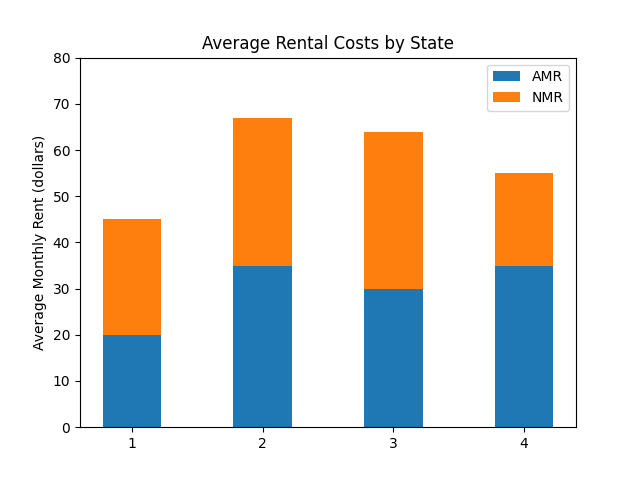
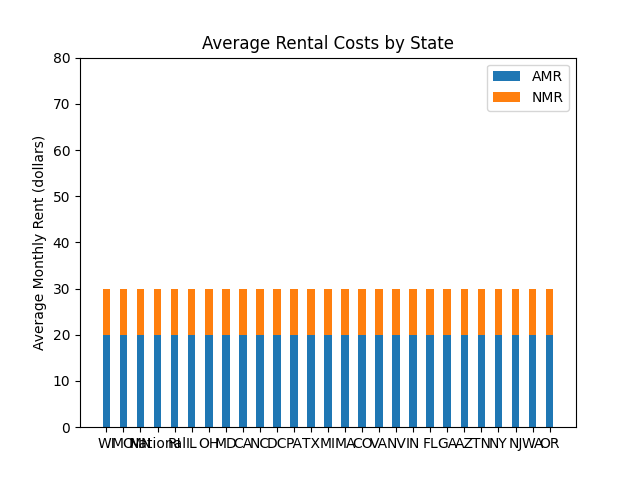
Final Project Updates

Changed region(s): [[0.1562, 0.2188, 0.875, 0.9375]]

diff --git a/FinalProject.py b/FinalProject.py
@@ -21,7 +21,7 @@ df = pd.read_csv(io.StringIO(download.decode('utf-8')))
 #Test =  Printing out the first 5 rows of the dataframe
 #print (df.head())
 
-#Unique State Retrieval
+#Unique State Retrieval 
 dataFrame = pd.DataFrame(df)
 Unique_State = (dataFrame["Region"].unique()) #Pulls State Abbreviation
 Unique_State_Count = (len(Unique_State)) #Count for all Inputs in Region column
@@ -30,17 +30,20 @@ Unique_State_Count = (len(Unique_State)) #Count for all Inputs in Region column
 #Average Monthly by State
 
 #National Average baseline 
-National_Rows = (dataFrame.query("Region== 'National'"), ("Month== 'April_2022'"))
+National_Rows = (dataFrame.query("Region== 'National'"))  #"Month== 'April_2022'"))
 
 # Attempt to pull out April 2022 National Rent Prices for baseline against all other information
 
-print(National_Rows.)
+#print(National_Rows)
 
 
 def main(): 
-    R = 4                                                    #Inputs along x axis
-    Average_Monthly_Rent = (20, 35, 30, 35)                  #Bar 1 
-    National_Average = (25, 32, 34, 20)                      #Bar 2
+    R = Unique_State_Count                                                    #Inputs along x axis
+    #Average_Monthly_Rent = (20,30,40,50)                  #Bar 1 Actual - How to properly map this so that (for example:Texas data is populated for Bar                                                                      dedicated to Texas and not some other region? 
+    Average_Monthly_Rent = (20,20,20,20,20,20,20,20,20,20,20,20,20,20,20,20,20,20,20,20,20,20,20,20,20,20,20) #Test
+    National_Average = (10,10,10,10,10,10,10,10,10,10,10,10,10,10,10,10,10,10,10,10,10,10,10,10,10,10,10) #Test2
+    
+    #National_Average = (10, 10, 10, 10)                      #Bar 2 - Actual
     ind = np.arange(R)                                       #Order of Bars 
     width = 0.45                                             #Width of Bar 
     
@@ -50,7 +53,8 @@ def main():
     
     plt.ylabel("Average Monthly Rent (dollars)")
     plt.title("Average Rental Costs by State")
-    plt.xticks(ind, ("1","2","3","4"))
+   # plt.xticks(ind, ("1","2","3","4"))
+    plt.xticks(ind, ("WI","MO","MN","National","RI","IL","OH","MD","CA","NC","DC","PA","TX","MI","MA","CO","VA","NV","IN","FL","GA","AZ","TN","NY","NJ","WA","OR"))
     plt.yticks(np.arange(0, 81, 10))
     plt.legend((p1[0], p2[0]), ("AMR", "NMR"))
 
